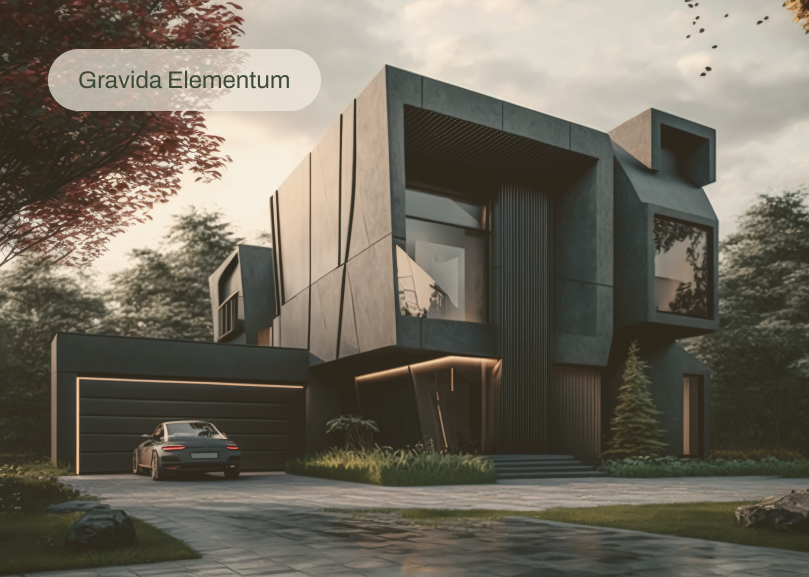
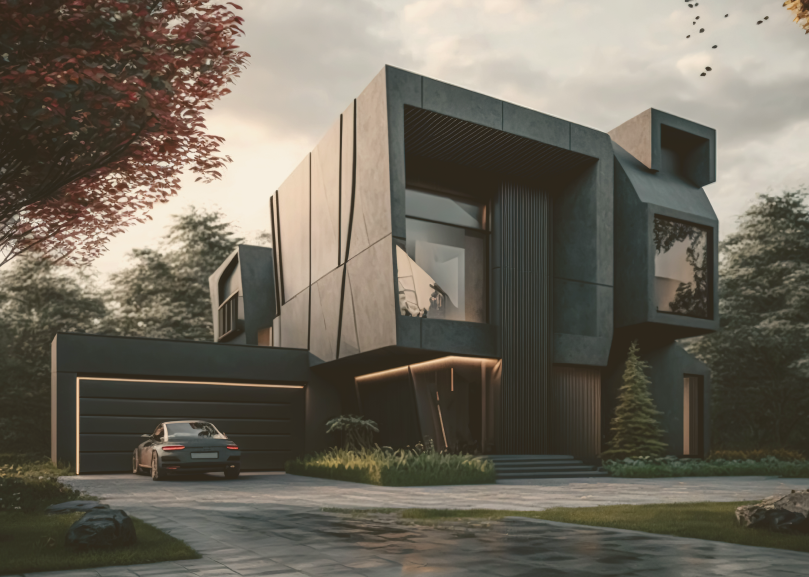
Enhance section-3 with structured content, images, and improved layout for better presentation

Changed region(s): [[0.0618, 0.0624, 0.4017, 0.2184]]

diff --git a/index.html b/index.html
@@ -103,25 +103,75 @@
     </section>
 
     <section class="section-3">
-      Massa pellentesque nibh arcu congue sit faucibus
-      Dolor quis dolor justo nunc in. Arcu aliquet velit ultricies lectus sem. Cras praesent mus sed cras diam nisi
-      augue
-      dignissim.
-      Gravida Elementum
-      Gravida Elementum
-      Integer-Dictum
-      Egestas quisque venenatis enim sit lectus dolor vitae senectus quis. Pretium id eu malesuada felis. Consectetur
-      ullamcorper in donec donec.
-      Volutpat-Nunc
-      Egestas quisque venenatis enim sit lectus dolor vitae senectus quis. Pretium id eu malesuada felis. Consectetur
-      ullamcorper in donec donec. Adipiscing magna pharetra suspendisse sit et. Blandit montes morbi lacus euismod.
-      Ornare
-      Aliquam
-      Gravida Elementum
-      Curabitur
-      Viverra
-      Egestas quisque venenatis enim sit lectus dolor vitae senectus quis. Pretium id eu malesuada felis. Consectetur
-      ullamcorper in donec donec.
+      <div class="sect-3-info">
+        <h2>Massa pellentesque nibh arcu congue sit faucibus</h2>
+
+        <p>
+          Dolor quis dolor justo nunc in. Arcu aliquet velit ultricies lectus sem. Cras praesent mus sed cras diam nisi
+          augue dignissim.
+        </p>
+      </div>
+
+      <li>
+        <div class="li-img">
+          <img src="images/integer-dictum.png" alt="">
+          <button>Gravida Elementum</button>
+        </div>
+
+        <div class="li-text">
+          <div>
+            <h3>Integer-Dictum</h3>
+            <span>Ornare</span>
+          </div>
+
+          <p>
+            Egestas quisque venenatis enim sit lectus dolor vitae senectus quis. Pretium id eu malesuada felis.
+            Consectetur
+            ullamcorper in donec donec.
+          </p>
+        </div>
+      </li>
+
+      <li>
+        <div class="li-img">
+          <img src="images/volutpat-nunc.png" alt="">
+          <button>Gravida Elementum</button>
+        </div>
+
+        <div class="li-text">
+          <div>
+            <h3>Volutpat-Nunc</h3>
+            <span>Aliquam</span>
+          </div>
+
+          <p>
+            Egestas quisque venenatis enim sit lectus dolor vitae senectus quis. Pretium id eu malesuada felis.
+            Consectetur
+            ullamcorper in donec donec. Adipiscing magna pharetra suspendisse sit et. Blandit montes morbi lacus
+            euismod.
+          </p>
+        </div>
+      </li>
+
+      <li>
+        <div class="li-img">
+          <img src="images/curabitur.png" alt="">
+          <button>Gravida Elementum</button>
+        </div>
+
+        <div class="li-text">
+          <div>
+            <h3>Curabitur</h3>
+            <span>Viverra</span>
+          </div>
+
+          <p>
+            Egestas quisque venenatis enim sit lectus dolor vitae senectus quis. Pretium id eu malesuada felis.
+            Consectetur
+            ullamcorper in donec donec.
+          </p>
+        </div>
+      </li>
     </section>
 
     <section class="section-4">
